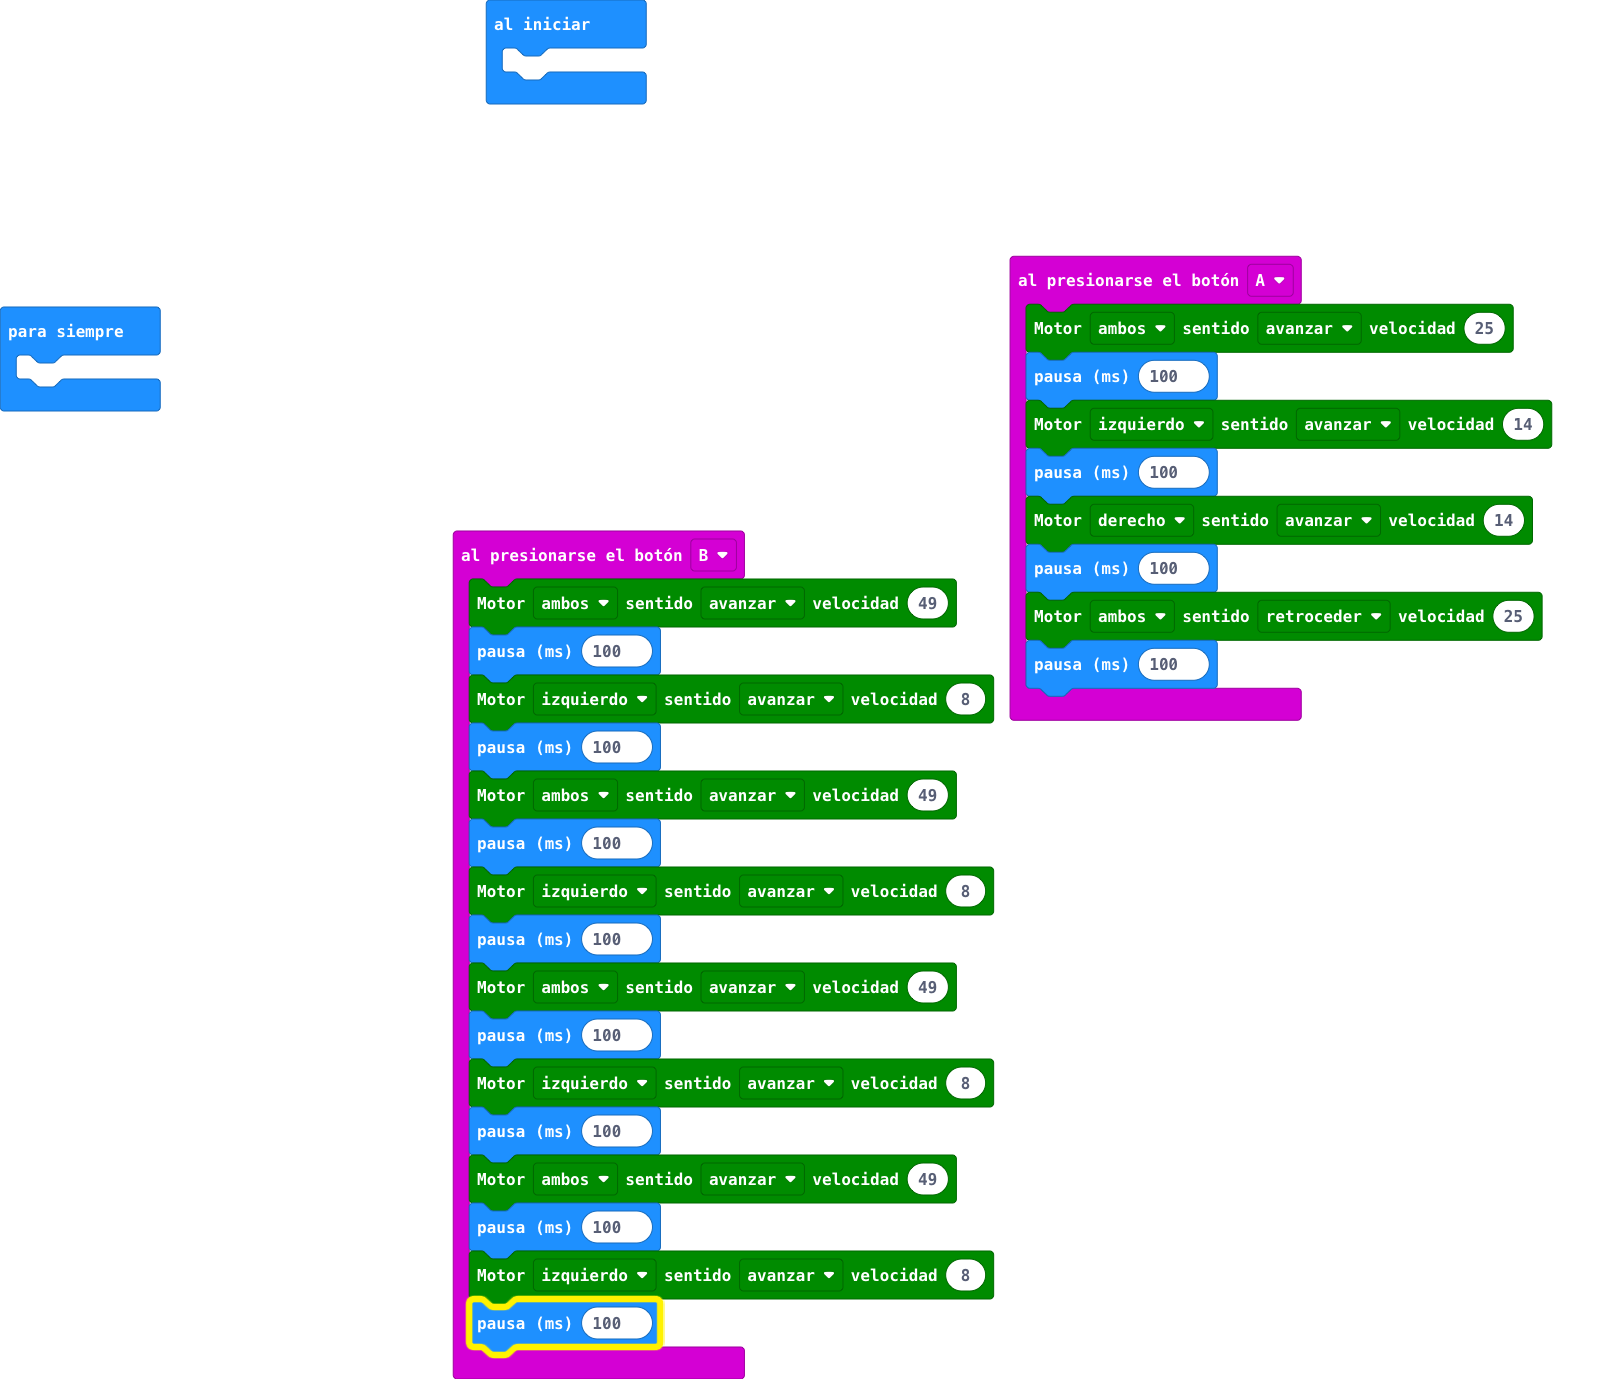
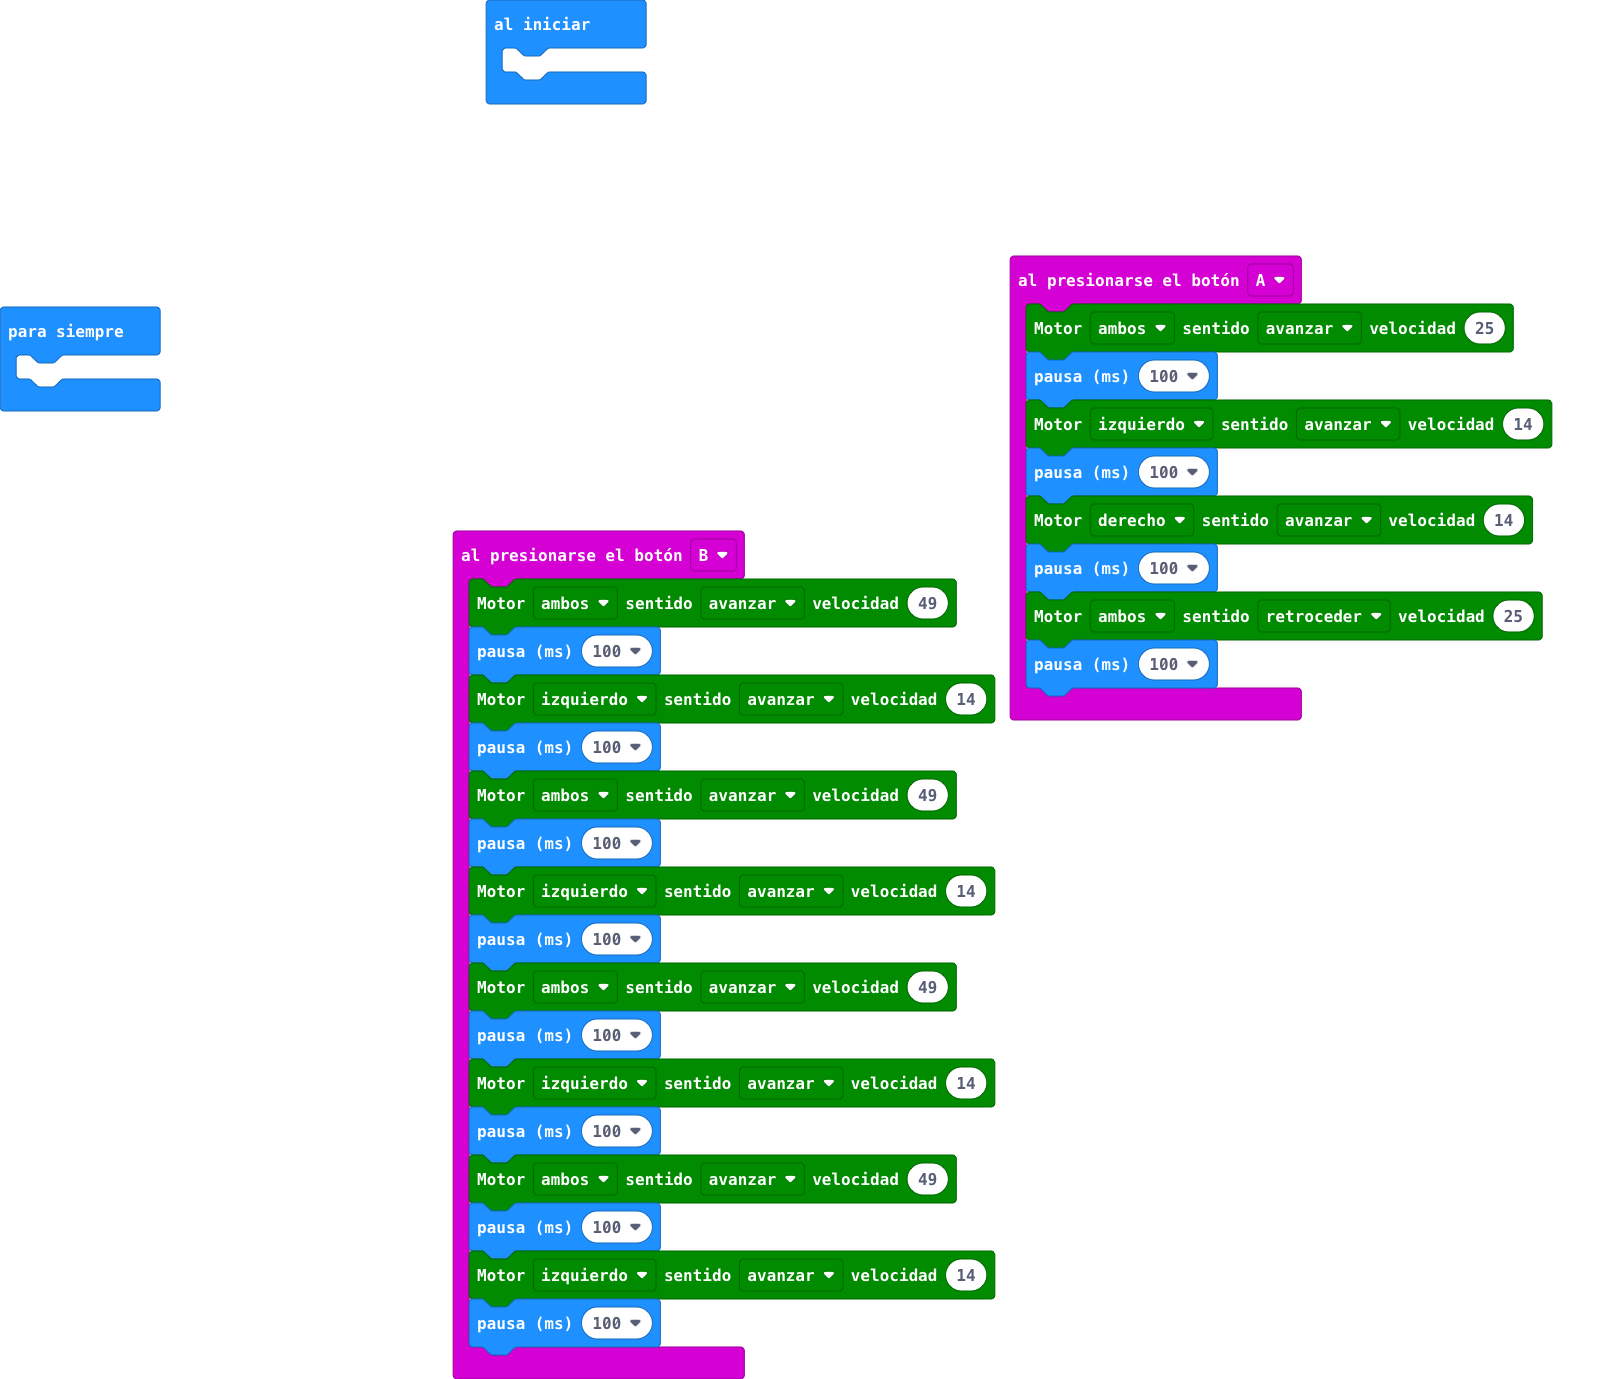
Actualizar main.blocks, main.ts

diff --git a/main.ts b/main.ts
@@ -11,19 +11,19 @@ input.onButtonPressed(Button.A, function () {
 input.onButtonPressed(Button.B, function () {
     maqueen.motorRun(maqueen.Motors.All, maqueen.Dir.CW, 49)
     basic.pause(100)
-    maqueen.motorRun(maqueen.Motors.M1, maqueen.Dir.CW, 8)
+    maqueen.motorRun(maqueen.Motors.M1, maqueen.Dir.CW, 14)
     basic.pause(100)
     maqueen.motorRun(maqueen.Motors.All, maqueen.Dir.CW, 49)
     basic.pause(100)
-    maqueen.motorRun(maqueen.Motors.M1, maqueen.Dir.CW, 8)
+    maqueen.motorRun(maqueen.Motors.M1, maqueen.Dir.CW, 14)
     basic.pause(100)
     maqueen.motorRun(maqueen.Motors.All, maqueen.Dir.CW, 49)
     basic.pause(100)
-    maqueen.motorRun(maqueen.Motors.M1, maqueen.Dir.CW, 8)
+    maqueen.motorRun(maqueen.Motors.M1, maqueen.Dir.CW, 14)
     basic.pause(100)
     maqueen.motorRun(maqueen.Motors.All, maqueen.Dir.CW, 49)
     basic.pause(100)
-    maqueen.motorRun(maqueen.Motors.M1, maqueen.Dir.CW, 8)
+    maqueen.motorRun(maqueen.Motors.M1, maqueen.Dir.CW, 14)
     basic.pause(100)
 })
 basic.forever(function () {
